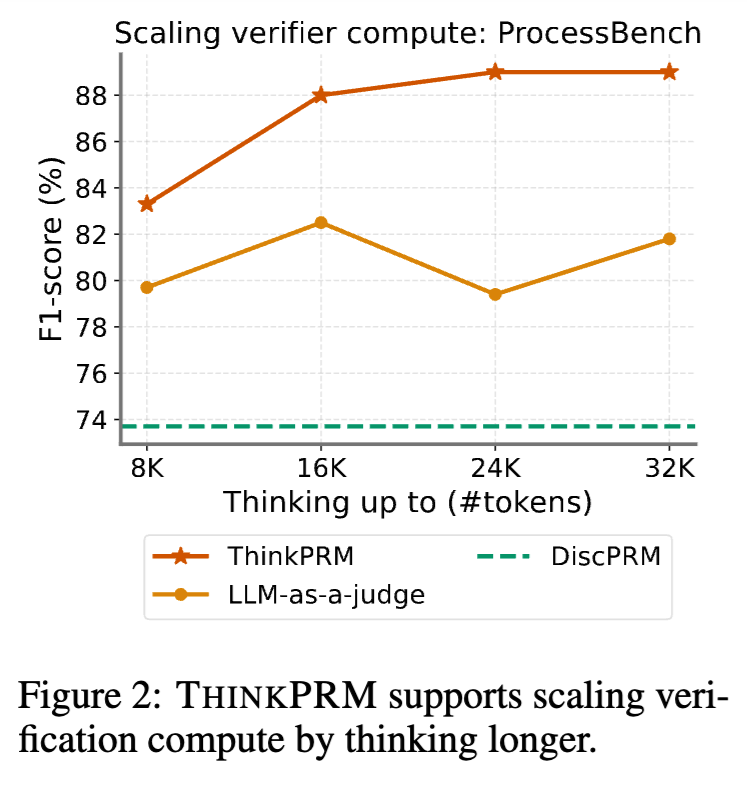
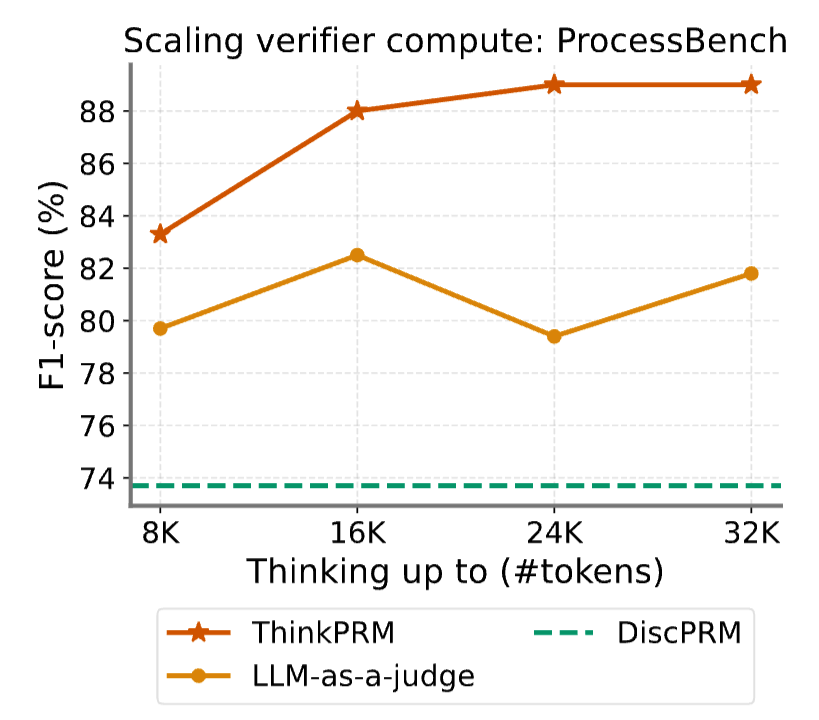
add thinkprm page

diff --git a/projects/thinkprm/index.html b/projects/thinkprm/index.html
@@ -29,7 +29,13 @@
   <link rel="stylesheet"
         href="https://cdn.jsdelivr.net/gh/jpswalsh/academicons@1/css/academicons.min.css">
   <link rel="stylesheet" href="./static/css/index.css">
-  <link rel="icon" type="image/svg+xml" href="./static/images/favicon.svg">
+  
+  <!-- Favicon -->
+  <link rel="apple-touch-icon" sizes="180x180" href="./static/images/favicon/apple-touch-icon.png">
+  <link rel="icon" type="image/png" sizes="32x32" href="./static/images/favicon/favicon-32x32.png">
+  <link rel="icon" type="image/png" sizes="16x16" href="./static/images/favicon/favicon-16x16.png">
+  <link rel="manifest" href="./static/images/favicon/site.webmanifest">
+  <link rel="shortcut icon" href="./static/images/favicon/favicon.ico">
 
   <script src="https://ajax.googleapis.com/ajax/libs/jquery/3.5.1/jquery.min.js"></script>
   <script defer src="./static/js/fontawesome.all.min.js"></script>
